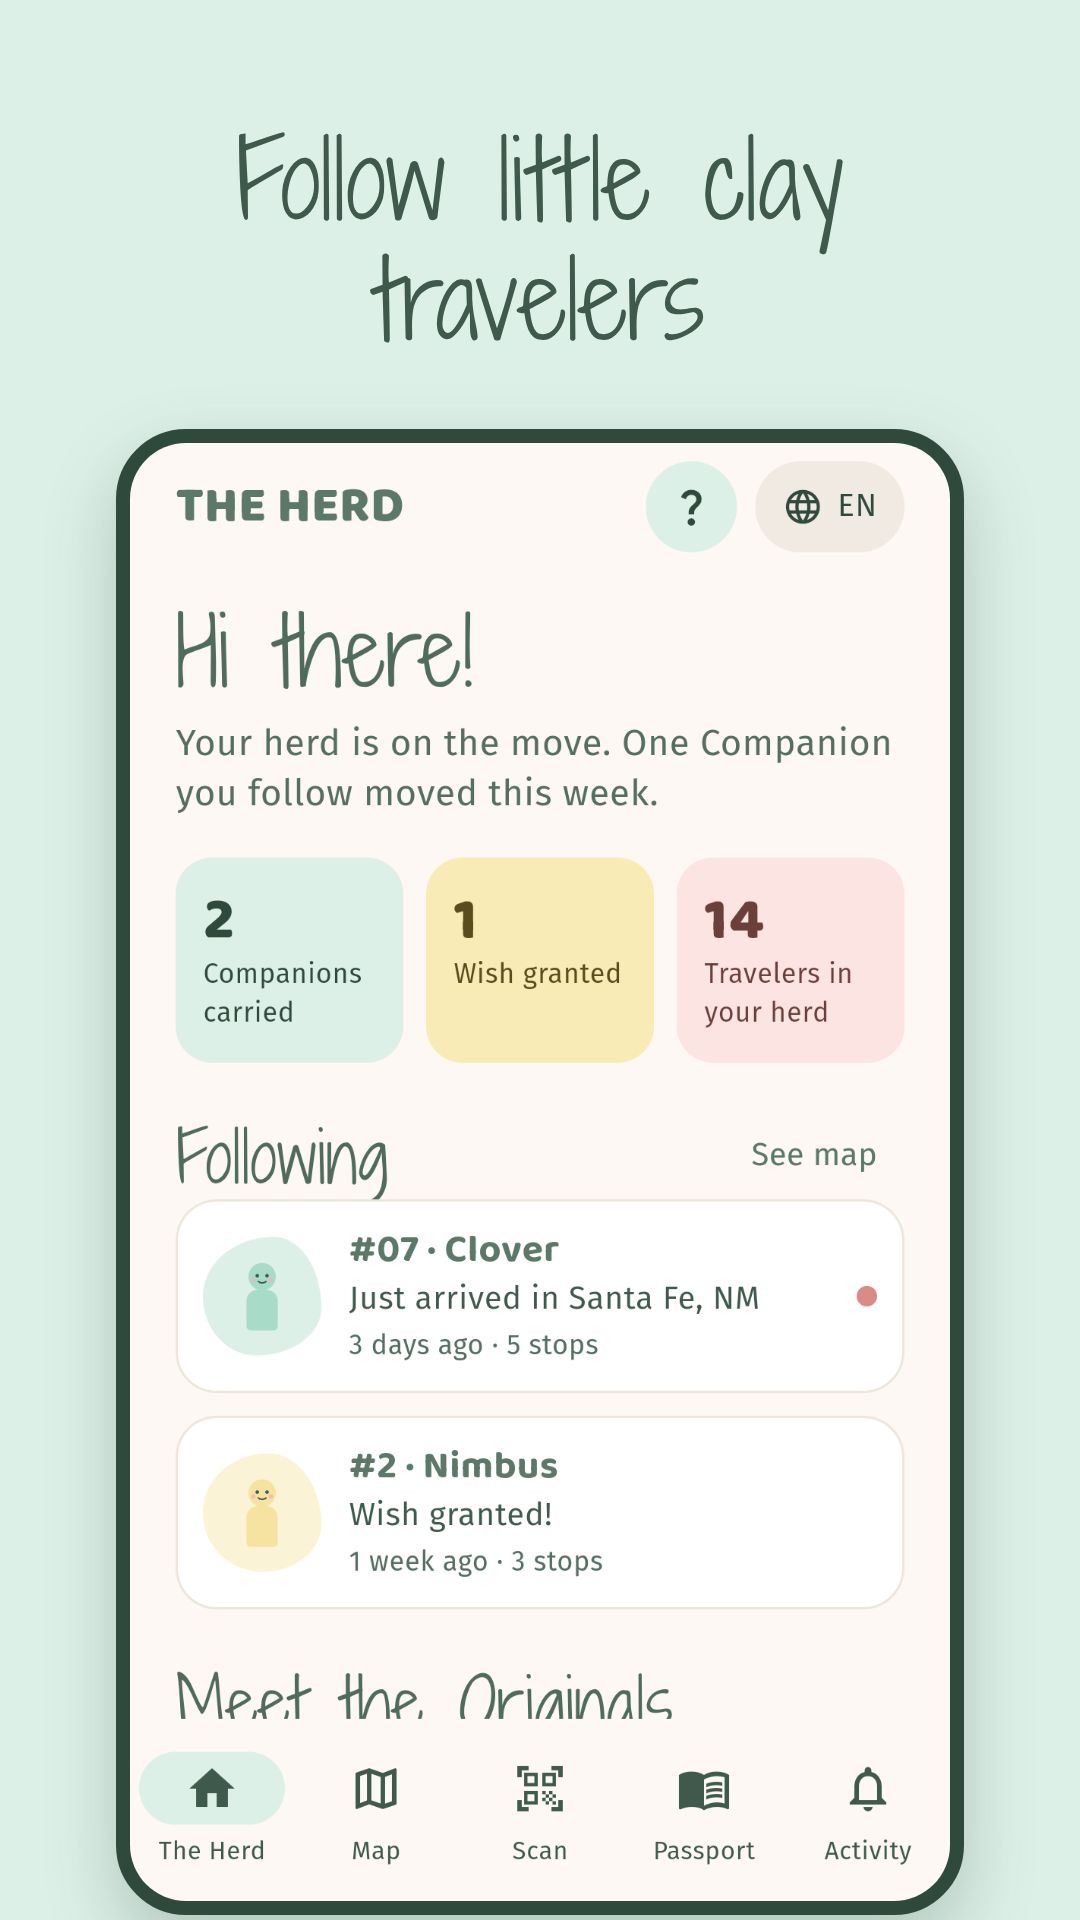
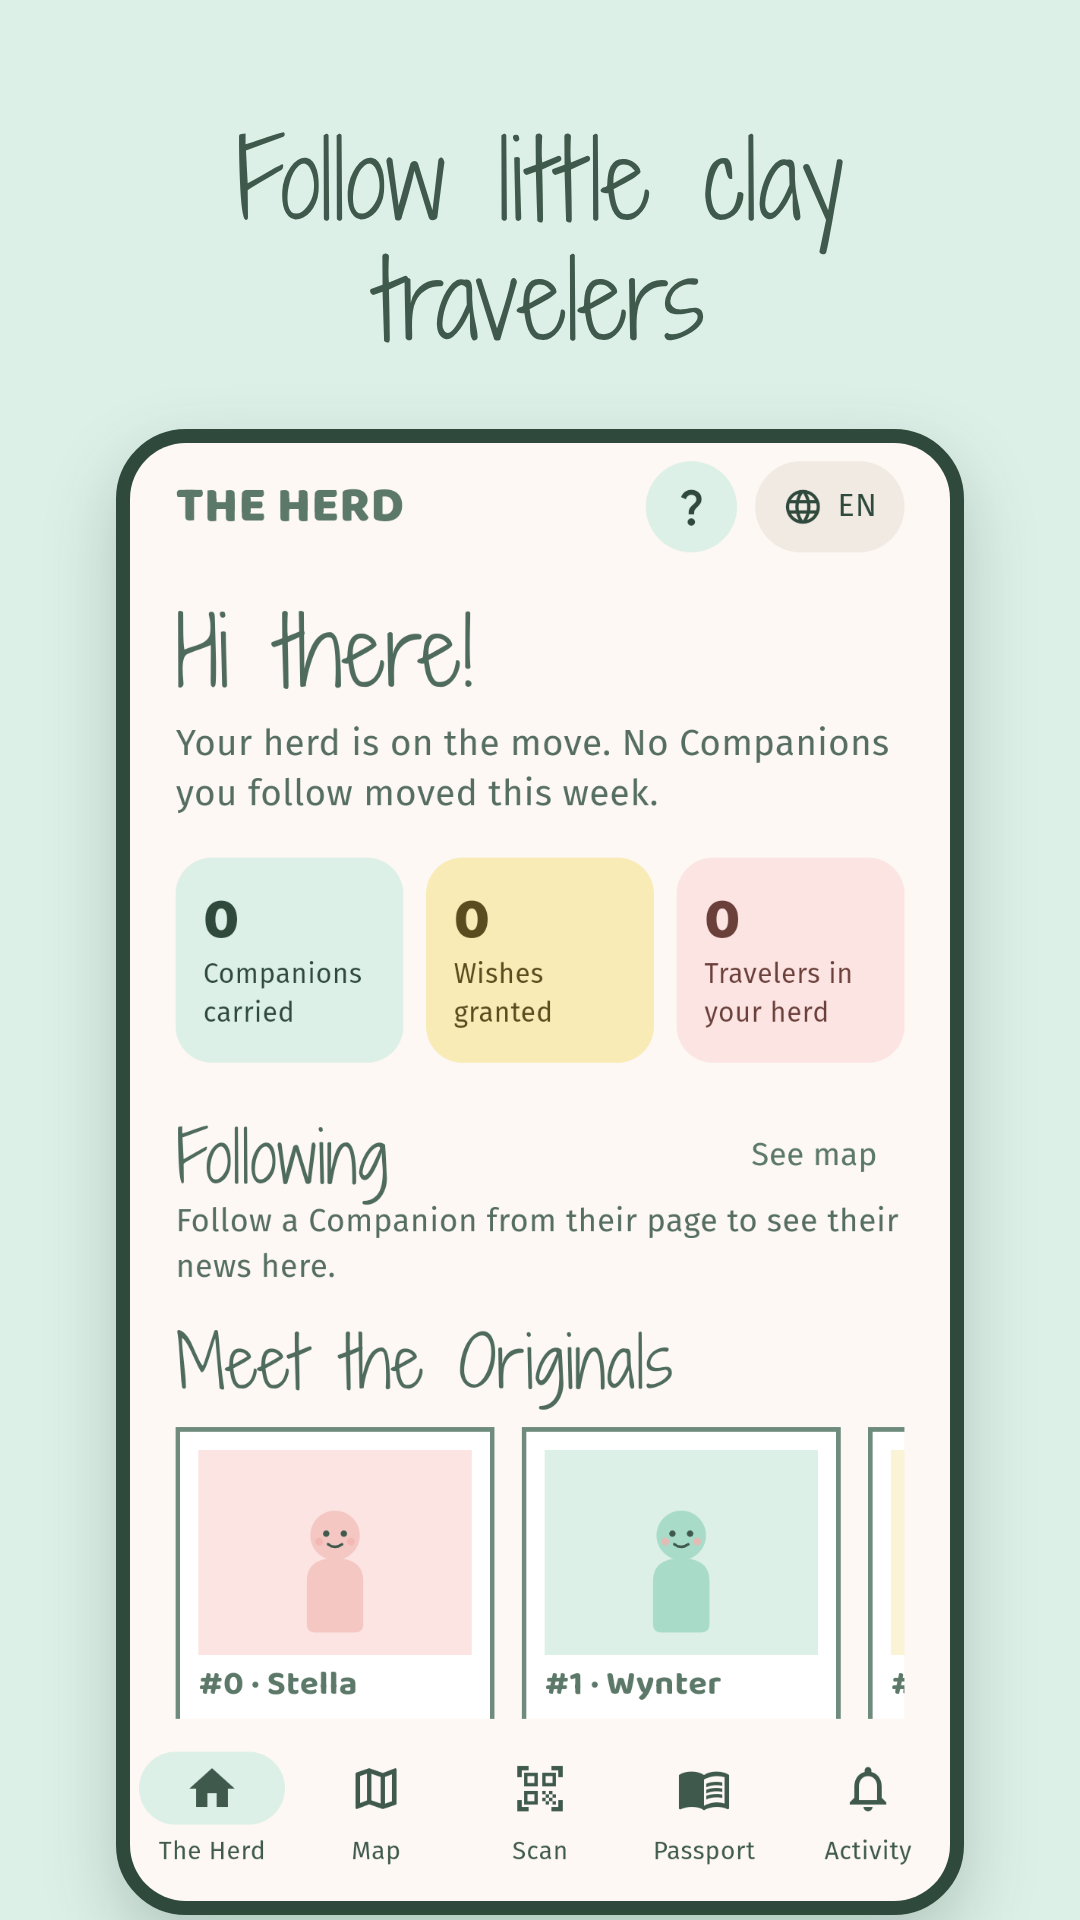
Store screenshots show the real app: the six real Companions, all at 0, a brand-new traveler
Claude-Session: https://claude.ai/code/session_01WdUoJdzrcW5C3KfUHFML1F

diff --git a/lib/store_shots.dart b/lib/store_shots.dart
@@ -1,46 +1,149 @@
-// Only for the Google Play screenshots (`--dart-define=STORE_SHOTS=true`): the sample data gets
-// The Herd's real Originals (names, blurbs, stories, wishes) and friendly traveler names instead
-// of placeholders. Normal builds never use this.
-import 'models.dart';
+// Only for the Google Play screenshots (`--dart-define=STORE_SHOTS=true`): the app starts on The
+// Herd's real Companions exactly as they are in the Wix lists today (all six waiting at the
+// studio), as a brand-new traveler would see them: nothing found, nothing followed, no stamps.
+// Normal builds never use this.
+import 'wix_api.dart';
 
 const storeShots = bool.fromEnvironment('STORE_SHOTS');
 
-const _originals = {
-  '0': ('Stella', 'see a telescope', 'The stars call to me.',
-      'This Companion wasn’t made. They fell out of the sky during a meteor shower over Aurora, landed in the studio’s clay bucket and climbed out demanding a form. The Herd gave them one. They’ve been trying to get back to the stars ever since.'),
-  '1': ('Wynter', 'ride a train', 'There’s nothing like a good friend to make a chilly day, a happy day.',
-      'The first snow of the year fell the day this Companion came out of the kiln. They learned early that the quietest moments can change everything, and they’ve been looking for more of them ever since.'),
-  '2': ('Nimbus', 'ride a bike', 'I’ve spent my life with my head in the clouds. Excited to see new things!',
-      'They were carved from a piece of a cloud that got too heavy, fell to the ground and turned into clay. That’s why they’re always looking up.'),
-  '3': ('Angel', 'meet a dog', 'You found me! Now we’re friends.',
-      'On the day they were made, a sunbeam landed right on the worktable and stayed there all afternoon. The Herd says that’s where this Companion’s sunny mood comes from.'),
-  '4': ('Sprout', 'smell the roses', 'I love hugs and hope we can be the best of friends.',
-      'Some clay is meant to hold flowers. Some is meant to hold water. This clay held a wish so big it needed legs to carry it.'),
-  '07': ('Clover', 'see the ocean', 'Lucky to meet you! Where are we going next?',
-      'A four-leaf clover was pressed into this clay by accident, and The Herd swears it’s been lucky ever since. Every traveler who carries them says something good happens on the way.'),
+/// The Companions and their first stops, copied from The Herd's Wix lists.
+WixLists storeShotLists() => WixLists.fromJson(_lists)!;
+
+const Map<String, Object> _lists = {
+  "companions": [
+    {
+      "number": "0",
+      "name": "Stella",
+      "isOriginal": true,
+      "status": "waiting",
+      "wish": "see a telescope",
+      "wishGranted": false,
+      "glaze": "F4C7C3",
+      "accent": "E58FA6",
+      "blob": "FBE4E2",
+      "blurb": "The stars call to me.",
+      "originStory": "This Companion wasn’t made. They fell out of the sky during a meteor shower over Aurora, landed in the studio’s clay bucket and climbed out demanding a form. The Herd gave them one. They’ve been trying to get back to the stars ever since."
+    },
+    {
+      "number": "1",
+      "name": "Wynter",
+      "isOriginal": true,
+      "status": "waiting",
+      "wish": "ride a train",
+      "wishGranted": false,
+      "glaze": "A8DCC9",
+      "accent": "5FA8A0",
+      "blob": "DDF0E8",
+      "blurb": "There's nothing like a good friend to make a chilly day, a happy day.",
+      "originStory": "The first snow of the year fell the day this Companion came out of the kiln. They learned early that the quietest moments can change everything, and they’ve been looking for more of them ever since."
+    },
+    {
+      "number": "2",
+      "name": "Nimbus",
+      "isOriginal": true,
+      "status": "waiting",
+      "wish": "ride a bike",
+      "wishGranted": false,
+      "glaze": "F6E3A1",
+      "accent": "E0B94A",
+      "blob": "FBF3D6",
+      "blurb": "I've spent my life with my head in the clouds. Excited to see new things!",
+      "originStory": "They were carved from a piece of a cloud that got too heavy, fell to the ground and turned into clay. That’s why they’re always looking up."
+    },
+    {
+      "number": "3",
+      "name": "Angel",
+      "isOriginal": true,
+      "status": "waiting",
+      "wish": "meet a dog",
+      "wishGranted": false,
+      "glaze": "D9CCEB",
+      "accent": "A08BC9",
+      "blob": "EFE9F7",
+      "blurb": "You found me! Now we’re friends.",
+      "originStory": "On the day they were made, a sunbeam landed right on the worktable and stayed there all afternoon. The Herd says that’s where this Companion’s sunny mood comes from. The Companion says they’ve been following that sunbeam ever since."
+    },
+    {
+      "number": "4",
+      "name": "Sprout",
+      "isOriginal": true,
+      "status": "waiting",
+      "wish": "smell the roses",
+      "wishGranted": false,
+      "glaze": "BFDDF0",
+      "accent": "7FB2D9",
+      "blob": "E5F1FA",
+      "blurb": "I love hugs and hope we can be the best of friends.",
+      "originStory": "Some clay is meant to hold flowers. Some is meant to hold water. This clay held a wish so big it needed legs to carry it. It was dug from the edge of a garden bed, still tangled with roots and smelling of rain, and it never forgot where it came from. Now this companion stops for every flower, says hello to every tree, and believes the best views are the ones you have to walk to."
+    },
+    {
+      "number": "5",
+      "name": "Bubba",
+      "isOriginal": true,
+      "status": "waiting",
+      "wish": "visit a restaurant",
+      "wishGranted": false,
+      "glaze": "F4C7C3",
+      "accent": "D98C86",
+      "blob": "DDF0E8",
+      "blurb": "I don’t take up much room, I never complain about the window seat, and I love snacks",
+      "originStory": "The day they were made, a train whistle echoed across Aurora, long and lonely. This Companion heard something else in it: an invitation. They’ve been saying yes ever since."
+    }
+  ],
+  "stops": [
+    {
+      "companionNumber": "0",
+      "kind": "made",
+      "city": "Aurora, CO",
+      "latitude": 39.74247,
+      "longitude": -104.81046,
+      "byName": "The Herd",
+      "whenText": "Where they were made"
+    },
+    {
+      "companionNumber": "1",
+      "kind": "made",
+      "city": "Aurora, CO",
+      "latitude": 39.74247,
+      "longitude": -104.81046,
+      "byName": "The Herd",
+      "whenText": "Where they were made"
+    },
+    {
+      "companionNumber": "2",
+      "kind": "made",
+      "city": "Aurora, CO",
+      "latitude": 39.74247,
+      "longitude": -104.81046,
+      "byName": "The Herd",
+      "whenText": "Where they were made"
+    },
+    {
+      "companionNumber": "3",
+      "kind": "made",
+      "city": "Aurora, CO",
+      "latitude": 39.74247,
+      "longitude": -104.81046,
+      "byName": "The Herd",
+      "whenText": "Where they were made"
+    },
+    {
+      "companionNumber": "4",
+      "kind": "made",
+      "city": "Aurora, CO",
+      "latitude": 39.74247,
+      "longitude": -104.81046,
+      "byName": "The Herd",
+      "whenText": "Where they were made"
+    },
+    {
+      "companionNumber": "5",
+      "kind": "made",
+      "city": "Aurora, CO",
+      "latitude": 39.74247,
+      "longitude": -104.81046,
+      "byName": "The Herd",
+      "whenText": "Where they were made"
+    }
+  ]
 };
-
-const _names = {'[TRAVELER]': 'Maya', '[TRAVELER 2]': 'Jonah', '[TRAVELER 3]': 'Priya'};
-
-List<Companion> applyStoreShots(List<Companion> list) {
-  if (!storeShots) return list;
-  for (final c in list) {
-    final o = _originals[c.number];
-    if (o != null) {
-      c.name = o.$1;
-      c.wish = o.$2;
-      c.blurb = o.$3;
-      c.originStory = o.$4;
-    }
-    for (var i = 0; i < c.stops.length; i++) {
-      final s = c.stops[i];
-      final who = _names[s.leftBy];
-      if (who == null) continue;
-      c.stops[i] = Stop(
-        city: s.city, place: s.place, latitude: s.latitude, longitude: s.longitude, leftBy: who, when: s.when,
-        note: s.note, photo: s.photo, photoUrl: s.photoUrl, found: s.found, handedOn: s.handedOn, kind: s.kind, date: s.date, id: s.id,
-      );
-    }
-  }
-  return list;
-}

diff --git a/lib/main.dart b/lib/main.dart
@@ -6,6 +6,7 @@ import 'package:material_ui/material_ui.dart';
 import 'l10n.dart';
 
 import 'app_state.dart';
+import 'store_shots.dart';
 import 'models.dart';
 import 'screens/activity_screen.dart';
 import 'screens/broke_screen.dart';
@@ -36,7 +37,9 @@ void main() {
   WidgetsFlutterBinding.ensureInitialized();
   // The real app connects to The Herd's Wix site (or uses the sample data until it's published)
   // and keeps what's yours on the phone. Screenshot runs (SCREEN=…) always use the sample data.
-  final model = startScreen.isEmpty ? (AppModel(api: WixApi(), store: PrefsStore())..start()) : AppModel();
+  final model = startScreen.isEmpty
+      ? (AppModel(api: WixApi(), store: PrefsStore())..start())
+      : (storeShots ? (AppModel()..start()) : AppModel());
   runApp(HerdApp(model: model));
 }
 
@@ -99,12 +102,12 @@ class _HerdAppState extends State<HerdApp> {
       case 'activity':
         router.select(AppTab.activity);
       case 'companion':
-        router.open(const CompanionRoute('07'), inTab: AppTab.home);
+        router.open(CompanionRoute(storeShots ? '0' : '07'), inTab: AppTab.home);
       case 'hello':
-        router.open(const CompanionRoute('07', showHello: true), inTab: AppTab.home);
+        router.open(CompanionRoute(storeShots ? '0' : '07', showHello: true), inTab: AppTab.home);
       case 'found':
-        model.unlocked.add('07'); // preview as someone who scanned #07
-        router.open(const FoundRoute('07'), inTab: AppTab.home);
+        model.unlocked.add(storeShots ? '0' : '07'); // preview as someone who scanned them
+        router.open(FoundRoute(storeShots ? '0' : '07'), inTab: AppTab.home);
       case 'passon-near': // preview the 5-mile rule: found #07 right here
         model.holding.add('07');
         model.foundAt['07'] = const LatLng(39.74, -104.84);
@@ -121,7 +124,7 @@ class _HerdAppState extends State<HerdApp> {
       case 'chat':
         router.open(const ChatRoute('07'), inTab: AppTab.home);
       case 'story':
-        router.open(const StoryRoute('07'), inTab: AppTab.home);
+        router.open(StoryRoute(storeShots ? '0' : '07'), inTab: AppTab.home);
       case 'learn':
         router.open(const LearnRoute(), inTab: AppTab.home);
       case 'settings':

diff --git a/lib/app_state.dart b/lib/app_state.dart
@@ -122,7 +122,7 @@ class AppModel extends ChangeNotifier {
 
   bool get isLive => mode == DataMode.live;
 
-  List<Companion> companions = applyStoreShots(sampleCompanions());
+  List<Companion> companions = sampleCompanions();
   final Set<String> following = {'07', '2'};
   final Set<String> holding = {}; // found and not passed on yet
   final Set<String> unlocked = {}; // find code checked, find not logged yet
@@ -259,6 +259,13 @@ class AppModel extends ChangeNotifier {
   /// Decides LIVE or SAMPLE, then loads the data and what's saved on this phone.
   /// LIVE only when The Herd's checker answers; otherwise SAMPLE (nothing changes until launch).
   Future<void> start() async {
+    if (storeShots) {
+      // Google Play screenshots: the real Companions, as a brand-new traveler sees them.
+      _useLive(storeShotLists(), offline: false);
+      following.clear();
+      notifyListeners();
+      return;
+    }
     try {
       final api = this.api;
       final lastMode = await store?.read(_lastModeKey);
